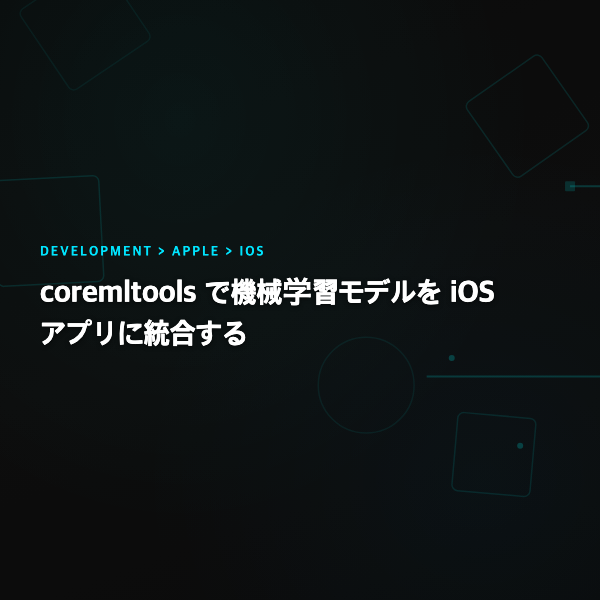
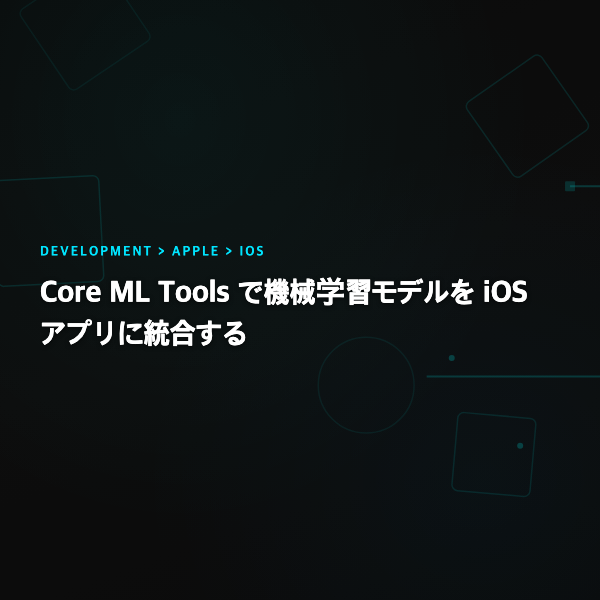
fix: rename coremltools to Core ML Tools and update code samples

Changed region(s): [[0.06, 0.45, 0.9, 0.51]]

diff --git a/_posts/ko/development/apple/ios/2026-02-18-core-ml-model-conversion.md b/_posts/ko/development/apple/ios/2026-02-18-core-ml-model-conversion.md
@@ -1,7 +1,7 @@
 ---
-title: "[iOS] coremltools로 머신러닝 모델을 iOS 앱에 통합하기"
+title: "[iOS] Core ML Tools로 머신러닝 모델을 iOS 앱에 통합하기"
 ref: core-ml-model-conversion
-excerpt: "coremltools를 활용하여 PyTorch 모델을 Core ML 형식으로 변환하고 iOS 앱에 통합하는 방법을 정리한다."
+excerpt: "Core ML Tools를 활용하여 PyTorch 모델을 Core ML 형식으로 변환하고 iOS 앱에 통합하는 방법을 정리한다."
 date: 2026-02-18T15:00+09:00
 last_modified_at: 2026-02-18T15:00+09:00
 published: true
@@ -31,7 +31,7 @@ depth:
 
 # 개요
 
-coremltools를 활용하여 PyTorch 모델을 Core ML 형식으로 변환하고 iOS 앱에 통합하는 방법을 정리한다.
+Core ML Tools를 활용하여 PyTorch 모델을 Core ML 형식으로 변환하고 iOS 앱에 통합하는 방법을 정리한다.
 
 # 정리
 
@@ -60,20 +60,20 @@ Apple은 Core ML 위에 도메인별 상위 프레임워크를 제공한다.
 
 이 프레임워크들은 내부적으로 Core ML을 사용하지만 더 높은 수준의 API를 제공한다. 예를 들어 Vision의 `VNClassifyImageRequest`를 사용하면 이미지 분류를 몇 줄의 코드로 구현할 수 있다.
 
-직접 학습한 커스텀 모델을 사용하려면 Core ML 형식(`.mlmodel` 또는 `.mlpackage`)으로 변환해야 한다. 여기서 coremltools가 필요하다.
+직접 학습한 커스텀 모델을 사용하려면 Core ML 형식(`.mlmodel` 또는 `.mlpackage`)으로 변환해야 한다. 여기서 Core ML Tools가 필요하다.
 
-## 3. coremltools로 모델 변환
+## 3. Core ML Tools로 모델 변환
 
-coremltools는 Apple이 제공하는 Python 라이브러리로 PyTorch, TensorFlow 등의 모델을 Core ML 형식으로 변환한다. 이 글에서는 PyTorch의 MobileNetV2 이미지 분류 모델을 예제로 사용한다.
+Core ML Tools(`coremltools`)는 Apple이 제공하는 Python 라이브러리로 PyTorch, TensorFlow 등의 모델을 Core ML 형식으로 변환한다. 이 글에서는 PyTorch의 MobileNetV2 이미지 분류 모델을 예제로 사용한다.
 
-### 3.1. coremltools 설치
+### 3.1. Core ML Tools 설치
 
 ```bash
 pip install coremltools
 pip install torch torchvision
 ```
 
-Python 3.8 이상이 필요하며 coremltools 8.x 기준으로 설명한다.
+Python 3.8 이상이 필요하며 Core ML Tools 8.x 기준으로 설명한다.
 
 ### 3.2. PyTorch 모델 변환
 

diff --git a/_posts/en/development/apple/ios/2026-02-18-core-ml-model-conversion.md b/_posts/en/development/apple/ios/2026-02-18-core-ml-model-conversion.md
@@ -1,9 +1,9 @@
 ---
-title: "[iOS] Integrating Machine Learning Models into iOS Apps with coremltools"
+title: "[iOS] Integrating Machine Learning Models into iOS Apps with Core ML Tools"
 ref: core-ml-model-conversion
 lang: en
 permalink: /en/:categories/:title/
-excerpt: "How to convert a PyTorch model to Core ML format using coremltools and integrate it into an iOS app."
+excerpt: "How to convert a PyTorch model to Core ML format using Core ML Tools and integrate it into an iOS app."
 date: 2026-02-18T15:00+09:00
 last_modified_at: 2026-02-18T15:00+09:00
 published: true
@@ -33,7 +33,7 @@ depth:
 
 # Overview
 
-How to convert a PyTorch model to Core ML format using coremltools and integrate it into an iOS app.
+How to convert a PyTorch model to Core ML format using Core ML Tools and integrate it into an iOS app.
 
 # Steps
 
@@ -62,20 +62,20 @@ Apple provides domain-specific frameworks on top of Core ML.
 
 These frameworks use Core ML internally but provide higher-level APIs. For example, using Vision's `VNClassifyImageRequest`, you can implement image classification in just a few lines of code.
 
-To use custom trained models, they must be converted to Core ML format (`.mlmodel` or `.mlpackage`). This is where coremltools comes in.
+To use custom trained models, they must be converted to Core ML format (`.mlmodel` or `.mlpackage`). This is where Core ML Tools comes in.
 
-## 3. Converting Models with coremltools
+## 3. Converting Models with Core ML Tools
 
-coremltools is a Python library provided by Apple that converts models from PyTorch, TensorFlow, and other frameworks to Core ML format. This guide uses PyTorch's MobileNetV2 image classification model as an example.
+Core ML Tools (`coremltools`) is a Python library provided by Apple that converts models from PyTorch, TensorFlow, and other frameworks to Core ML format. This guide uses PyTorch's MobileNetV2 image classification model as an example.
 
-### 3.1. Installing coremltools
+### 3.1. Installing Core ML Tools
 
 ```bash
 pip install coremltools
 pip install torch torchvision
 ```
 
-Python 3.8 or later is required. This guide is based on coremltools 8.x.
+Python 3.8 or later is required. This guide is based on Core ML Tools 8.x.
 
 ### 3.2. Converting a PyTorch Model
 
